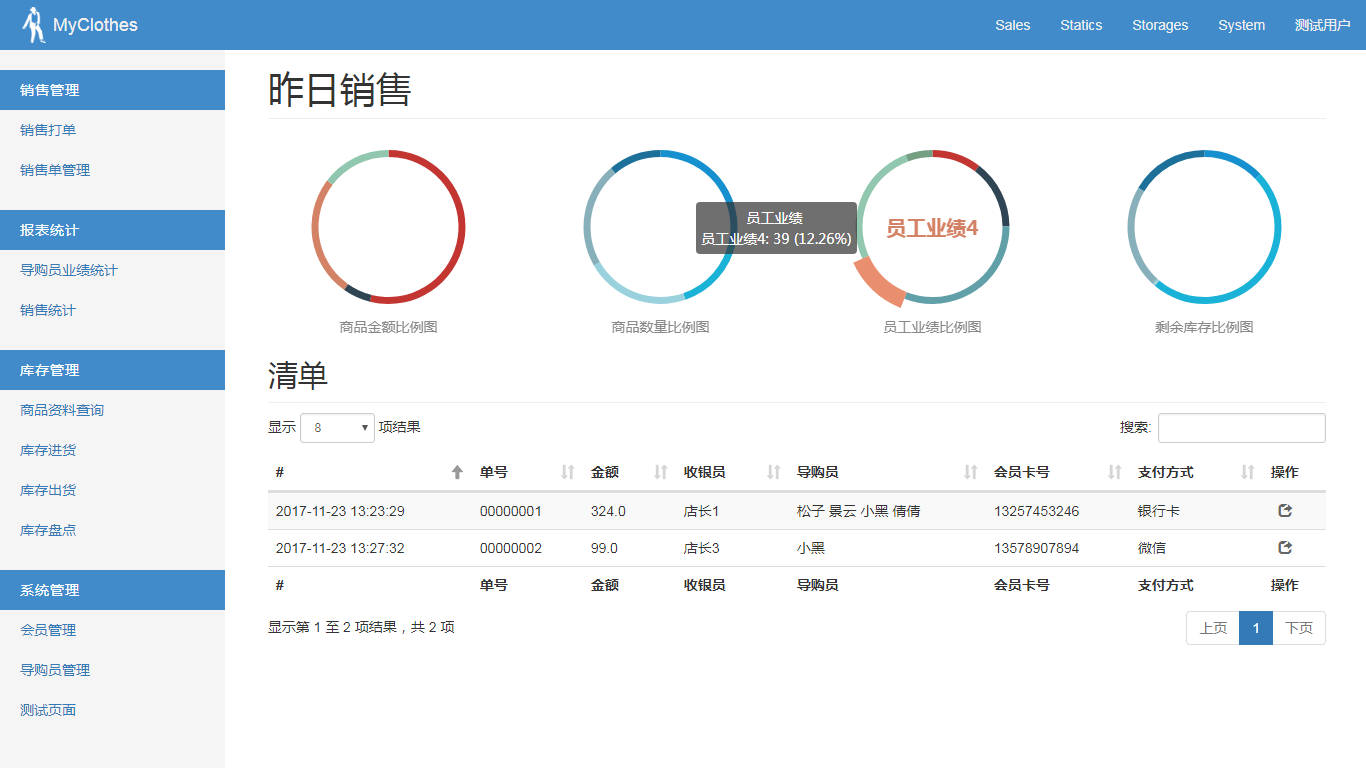
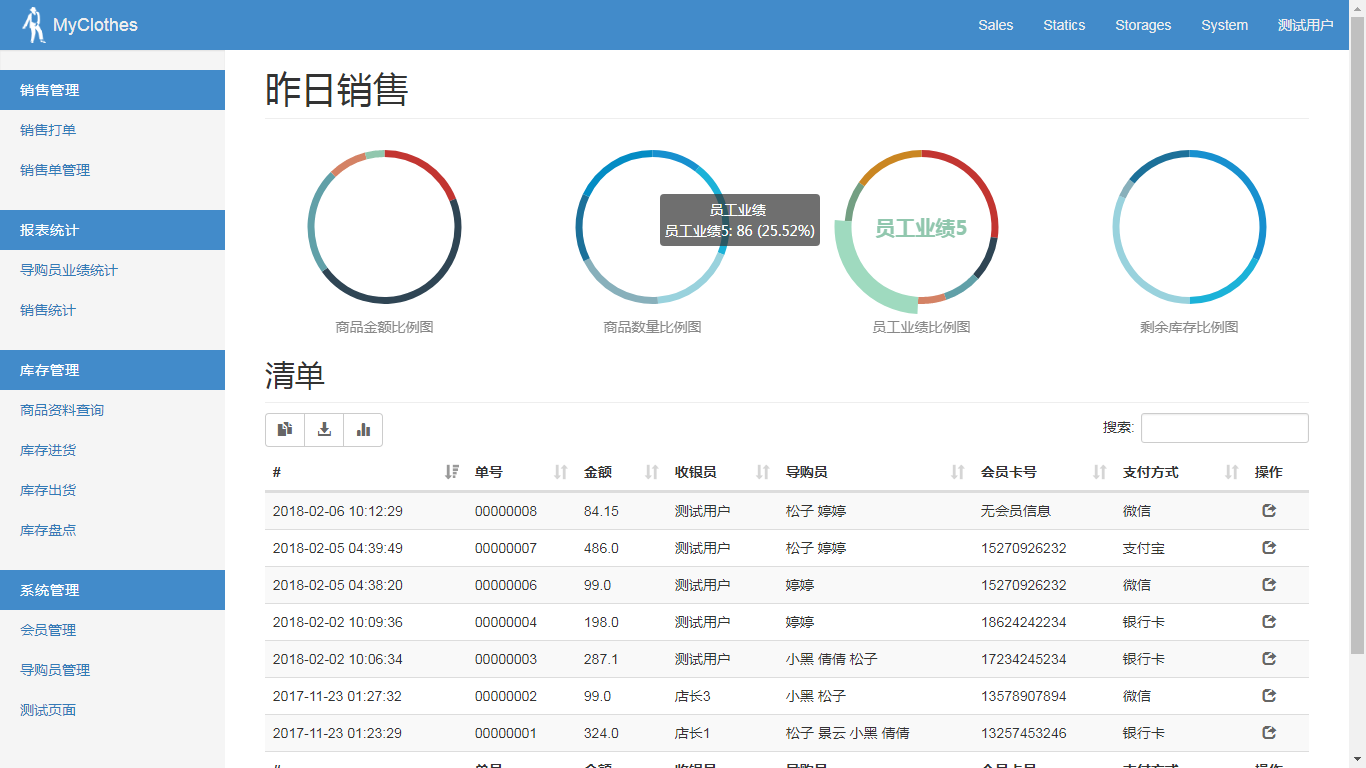
2018/2/25 complate_main_dataTables_buttons
主页面订单buttons扩展修改完善

diff --git a/WebContent/assets/dataTables/buttons.bootstrap.min.js b/WebContent/assets/dataTables/buttons.bootstrap.min.js
@@ -2,5 +2,4 @@
  Bootstrap integration for DataTables' Buttons
  ©2016 SpryMedia Ltd - datatables.net/license
 */
-(function(c){"function"===typeof define&&define.amd?define(["jquery","datatables.net-bs","datatables.net-buttons"],function(a){return c(a,window,document)}):"object"===typeof exports?module.exports=function(a,b){a||(a=window);if(!b||!b.fn.dataTable)b=require("datatables.net-bs")(a,b).$;b.fn.dataTable.Buttons||require("datatables.net-buttons")(a,b);return c(b,a,a.document)}:c(jQuery,window,document)})(function(c){var a=c.fn.dataTable;c.extend(!0,a.Buttons.defaults,{dom:{container:{className:"dt-buttons btn-group"},
-button:{className:"btn btn-default"},collection:{tag:"ul",className:"dt-button-collection dropdown-menu",button:{tag:"li",className:"dt-button",active:"active",disabled:"disabled"},buttonLiner:{tag:"a",className:""}}}});a.ext.buttons.collection.text=function(a){return a.i18n("buttons.collection",'Collection <span class="caret"/>')};return a.Buttons});
+(function(c){"function"===typeof define&&define.amd?define(["jquery","datatables.net-bs","datatables.net-buttons"],function(a){return c(a,window,document)}):"object"===typeof exports?module.exports=function(a,b){a||(a=window);if(!b||!b.fn.dataTable)b=require("datatables.net-bs")(a,b).$;b.fn.dataTable.Buttons||require("datatables.net-buttons")(a,b);return c(b,a,a.document)}:c(jQuery,window,document)})(function(c){var a=c.fn.dataTable;c.extend(!0,a.Buttons.defaults,{dom:{container:{className:"dt-buttons btn-group pull-left"}/* pull-left added by xeahsoon */,button:{className:"btn btn-default"},collection:{tag:"ul",className:"dt-button-collection dropdown-menu",button:{tag:"li",className:"dt-button",active:"active",disabled:"disabled"},buttonLiner:{tag:"a",className:""}}}});a.ext.buttons.collection.text=function(a){return a.i18n("buttons.collection",'Collection <span class="caret"/>')};return a.Buttons});

diff --git a/WebContent/js/main.js b/WebContent/js/main.js
@@ -62,30 +62,31 @@ $(document).ready(function() {
 		}
 	}
 
-	// 创建orders_table表格
-	var table = $('#orders_table').DataTable( {
-        lengthChange: false,
-        buttons: [ 'excel', 'colvis' ]
-    } );
- 
-    table.buttons().container()
-        .appendTo( '#orders_table_wrapper .col-sm-6:eq(0)' );
-	/*$('#orders_table').DataTable({
+	$('#orders_table').DataTable({
 		//导入中文包
 		"language" : {
 			"url" : "assets/dataTables/plug-in/Chinese.json"
 		},
 		"order": [[ 0, "desc" ]],
 		//设置操作栏 排序为 false
-		"columnDefs" : [ {
+		"columnDefs" : [{
 			"orderable" : false,
 			"targets" : 7
-		} ],
-		"lengthMenu" : [ [ 8, 18, 28, -1 ], [ 8, 18, 28, "全部" ] ],
-		buttons: [
-	        'copy', 'excel', 'pdf'
+		}],
+		"dom" : 'Bfrtip',
+		"buttons" : [
+			{
+				extend: 'copy',
+	            text: "<span class='glyphicon glyphicon-duplicate table-buttons' title='复制'></span>"
+	        },{
+				extend: 'excel',
+	            text: "<span class='glyphicon glyphicon-download-alt table-buttons' title='导出Excel'></span>"
+	        },{
+	            extend: 'colvis',
+	            text: "<span class='glyphicon glyphicon-stats table-buttons' title='列可视调整'></span>"
+	        }
 	    ]
-	});*/
+	});
 });
 
 // 通过ajax从后台获取数据并创建ECharts

diff --git a/WebContent/css/base.css b/WebContent/css/base.css
@@ -19,6 +19,11 @@
 	border: none;
 }
 
+.table-buttons {
+	color: #666;
+	margin: 0 auto;
+}
+
 .operator {
 	color: #666;
 }
